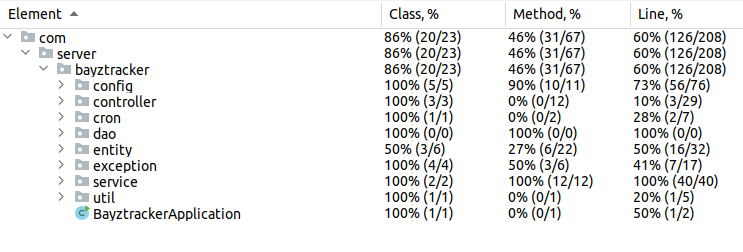
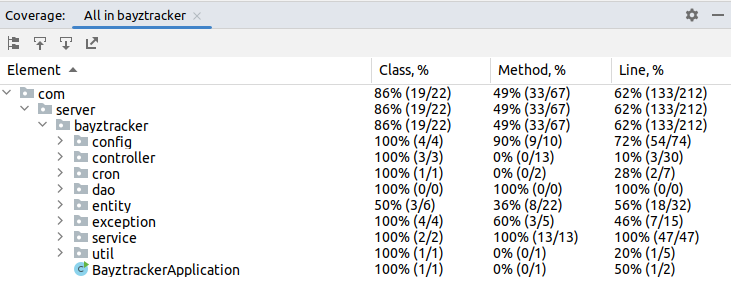
add update currency endpoint

diff --git a/src/test/java/com/server/bayztracker/service/CurrencyServiceImplTest.java b/src/test/java/com/server/bayztracker/service/CurrencyServiceImplTest.java
@@ -85,6 +85,30 @@ class CurrencyServiceImplTest {
         Mockito.verify(currencyRepository, Mockito.times(1)).findAllByActive(anyBoolean());
     }
 
+    @Test
+    void whenCoinIsUpdatedWithValidName_ThenItShouldBeAddedSuccessFully() {
+        Currency req = new Currency();
+        req.setSymbol("NEW");
+        req.setCurrentPrice(190F);
+
+        Mockito.when(currencyRepository.findById(anyString())).thenReturn(Optional.of(getCurrency()));
+        target.updateExistingCoin("Test", req);
+        Mockito.verify(currencyRepository, Mockito.times(1)).save(any(Currency.class));
+    }
+
+    @Test
+    void whenCoinIsUpdatedWithInvalidName_ThenItShouldThrowException() {
+        Currency req = new Currency();
+        req.setSymbol("NEW");
+        req.setCurrentPrice(190F);
+
+        Mockito.when(currencyRepository.findById(anyString())).thenReturn(Optional.empty());
+        assertThatThrownBy(() -> target.updateExistingCoin("Test", req))
+                .isInstanceOf(RuntimeException.class)
+                .hasMessage("Please pass valid Currency name.");
+        Mockito.verify(currencyRepository, Mockito.times(0)).save(any(Currency.class));
+    }
+
     private static Currency getCurrency() {
         Currency req = new Currency();
         req.setSymbol("ABC");

diff --git a/src/main/java/com/server/bayztracker/service/CurrencyServiceImpl.java b/src/main/java/com/server/bayztracker/service/CurrencyServiceImpl.java
@@ -2,6 +2,7 @@ package com.server.bayztracker.service;
 
 import com.server.bayztracker.dao.CurrencyRepository;
 import com.server.bayztracker.entity.Currency;
+import com.server.bayztracker.exception.InvalidActionException;
 import com.server.bayztracker.exception.InvalidCoinException;
 import org.springframework.beans.factory.annotation.Autowired;
 import org.springframework.stereotype.Service;
@@ -50,4 +51,17 @@ public class CurrencyServiceImpl implements CurrencyService {
     public Iterable<Currency> getArchivedCoin() {
         return currencyRepository.findAllByActive(Boolean.FALSE);
     }
+
+    @Override
+    public Currency updateExistingCoin(String name, Currency currency) {
+        Optional<Currency> res = currencyRepository.findById(name);
+        if (res.isPresent()) {
+            Currency queryResult = res.get();
+            queryResult.setSymbol(currency.getSymbol());
+            queryResult.setCurrentPrice(currency.getCurrentPrice());
+            return currencyRepository.save(queryResult);
+        }
+        throw new InvalidActionException("Please pass valid Currency name.");
+    }
+
 }

diff --git a/src/main/java/com/server/bayztracker/controller/CurrencyController.java b/src/main/java/com/server/bayztracker/controller/CurrencyController.java
@@ -43,5 +43,9 @@ public class CurrencyController {
         return currencyService.getArchivedCoin();
     }
 
-
+    @PostMapping("/update")
+    @PreAuthorize("hasAuthority('ADMIN')")
+    public Currency updateCurrency(@RequestParam String name, @RequestBody Currency currency) {
+        return currencyService.updateExistingCoin(name, currency);
+    }
 }

diff --git a/src/main/java/com/server/bayztracker/service/CurrencyService.java b/src/main/java/com/server/bayztracker/service/CurrencyService.java
@@ -13,4 +13,6 @@ public interface CurrencyService {
     Currency deleteCurrencyBySymbol(String symbolName);
 
     Iterable<Currency> getArchivedCoin();
+
+    Currency updateExistingCoin(String name, Currency currency);
 }
